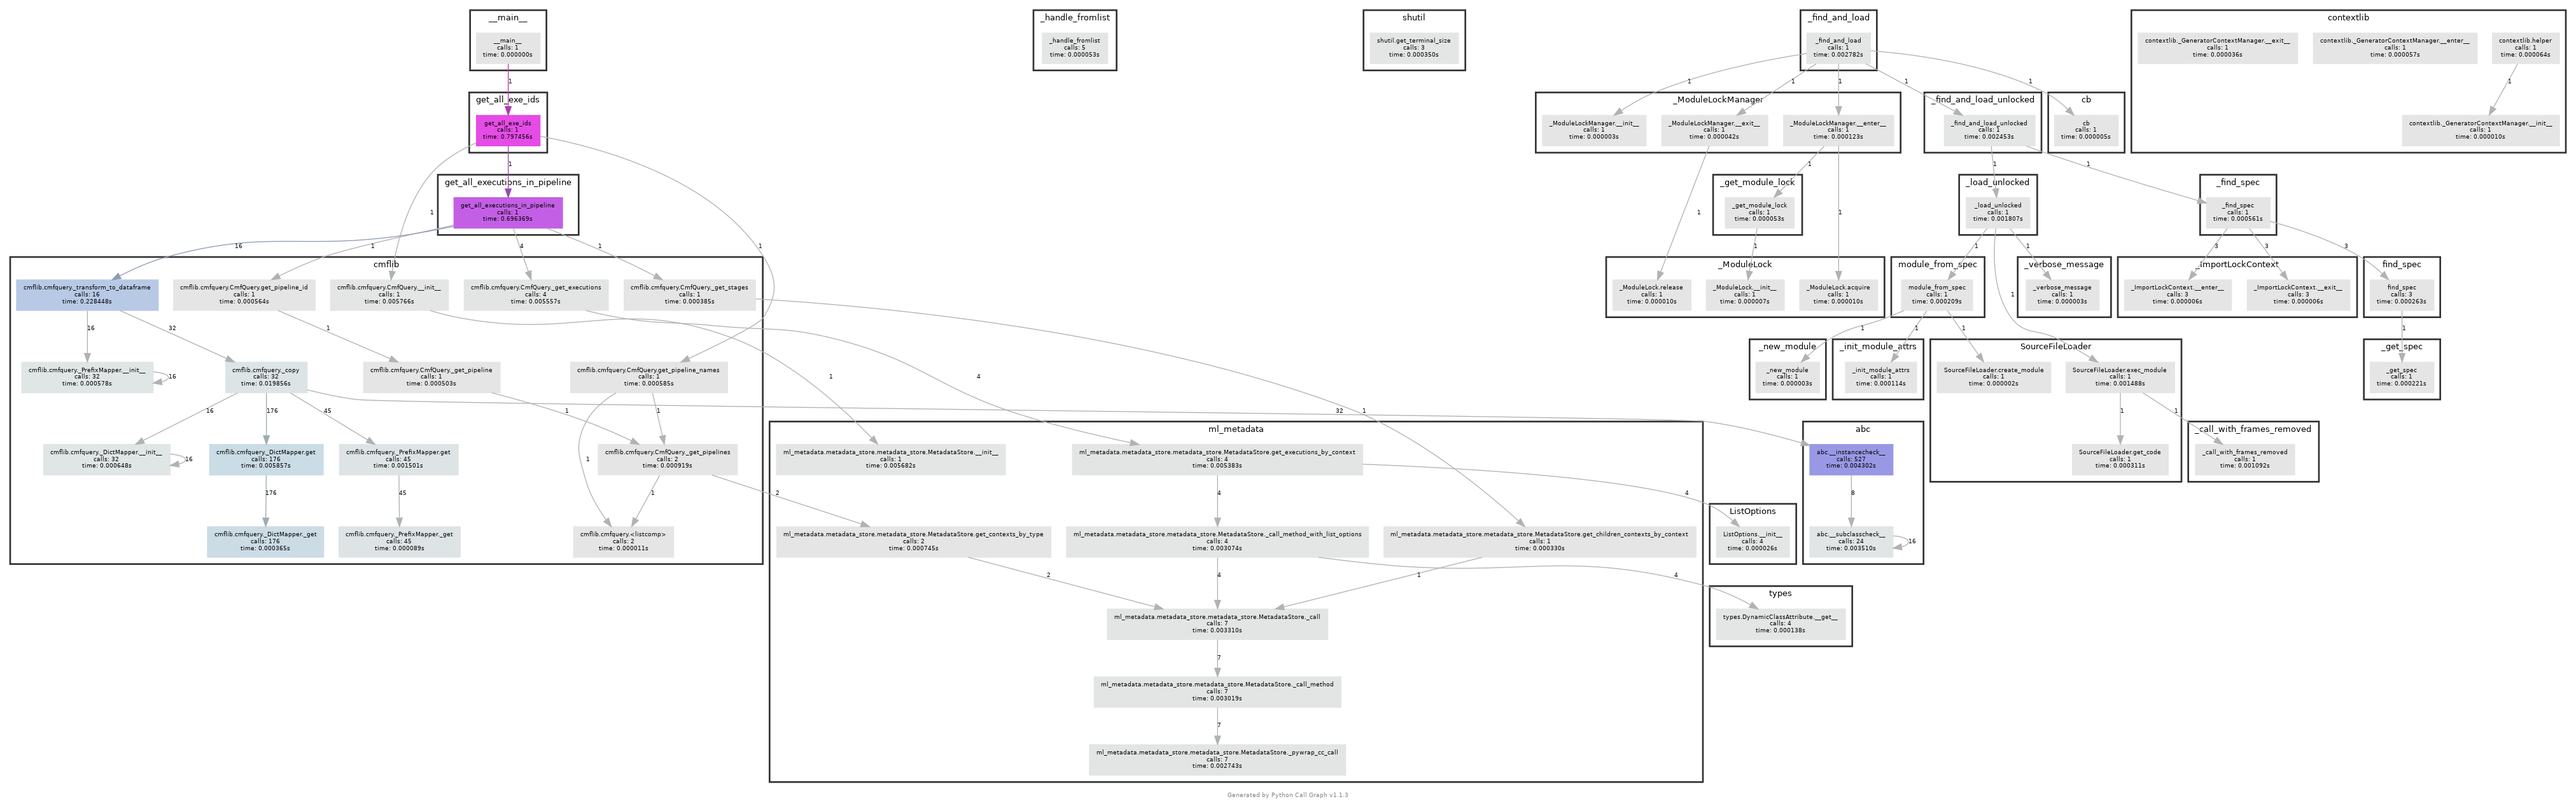
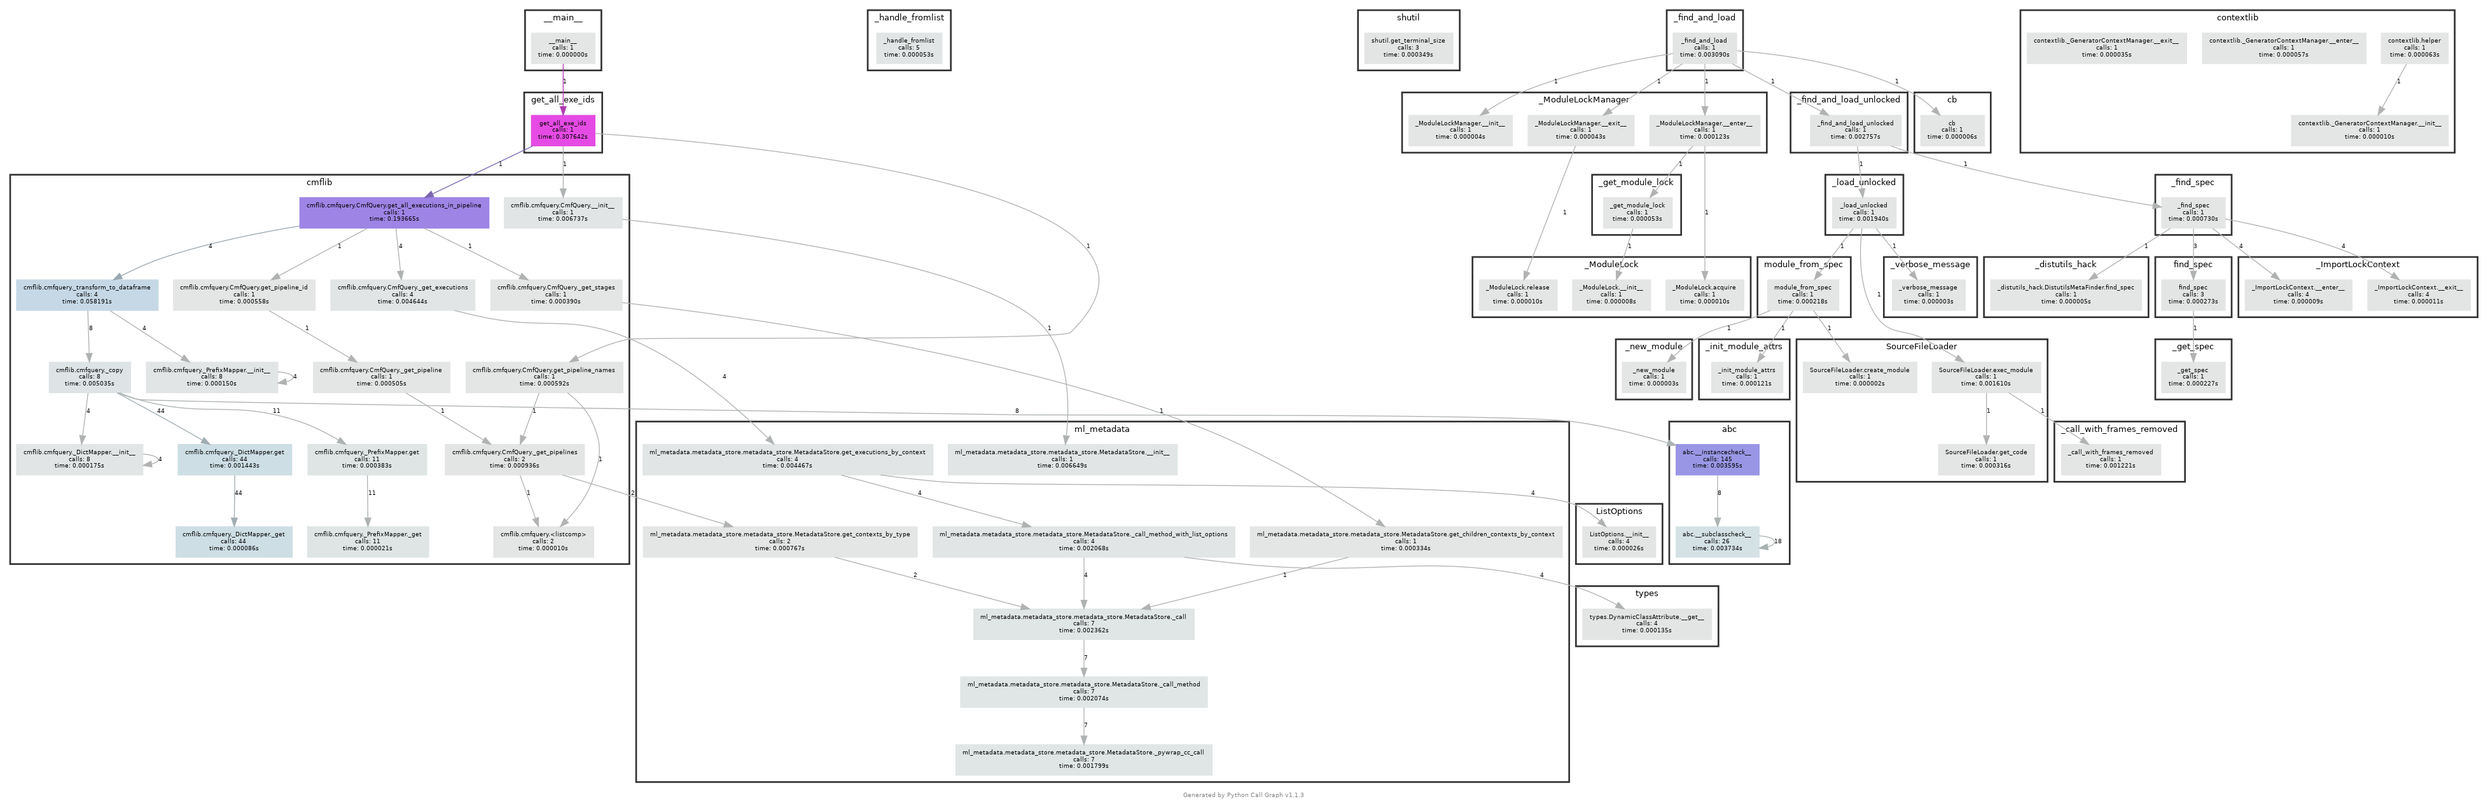
Added modified functions inside cmfquery.py file

diff --git a/pycallgraph/get_all_exe_id_new.py b/pycallgraph/get_all_exe_id_new.py
@@ -8,19 +8,6 @@ import typing as t
 import json, glob
 import os
 
-   
-# writing new functions to remove multiple calls to cmfquery functions or ml-metadata functions
-def get_all_executions_in_pipeline(pipeline_name, q):
-    df = pd.DataFrame()
-    pipeline_id = q.get_pipeline_id(pipeline_name)
-    for stage in q._get_stages(pipeline_id):
-        for execution in q._get_executions(stage.id):
-           ex_as_df: pd.DataFrame = q._transform_to_dataframe(
-               execution, {"id": execution.id, "name": execution.name}
-           )
-           df = pd.concat([df, ex_as_df], sort=True, ignore_index=True)
-    return df
-
 
 def get_all_exe_ids(mlmdfilepath):
     '''
@@ -33,7 +20,7 @@ def get_all_exe_ids(mlmdfilepath):
     names = query.get_pipeline_names()
     for name in names:
         df = pd.DataFrame()    # df is emptied to store execution ids for next pipeline.
-        executions = get_all_executions_in_pipeline(name, query)
+        executions = query.get_all_executions_in_pipeline(name)
         df = pd.concat([df, executions], sort=True, ignore_index=True)
     # check if df is empty return just pipeline_name: {}
     # if df is not empty return dictionary with pipeline_name as key 

diff --git a/cmflib/cmfquery.py b/cmflib/cmfquery.py
@@ -795,6 +795,20 @@ class CmfQuery(object):
         df = pd.read_parquet(name)
         return df
 
+
+    # writing new functions to remove multiple calls to cmfquery functions or ml-metadata functions
+    def get_all_executions_in_pipeline(self, pipeline_name):
+        df = pd.DataFrame()
+        pipeline_id = self.get_pipeline_id(pipeline_name)
+        for stage in self._get_stages(pipeline_id):
+            for execution in self._get_executions(stage.id):
+               ex_as_df: pd.DataFrame = self._transform_to_dataframe(
+                   execution, {"id": execution.id, "name": execution.name}
+               )
+               df = pd.concat([df, ex_as_df], sort=True, ignore_index=True)
+        return df
+
+
     def dumptojson(self, pipeline_name: str, exec_id: t.Optional[int] = None) -> t.Optional[str]:
         """Return JSON-parsable string containing details about the given pipeline.
         Args:
